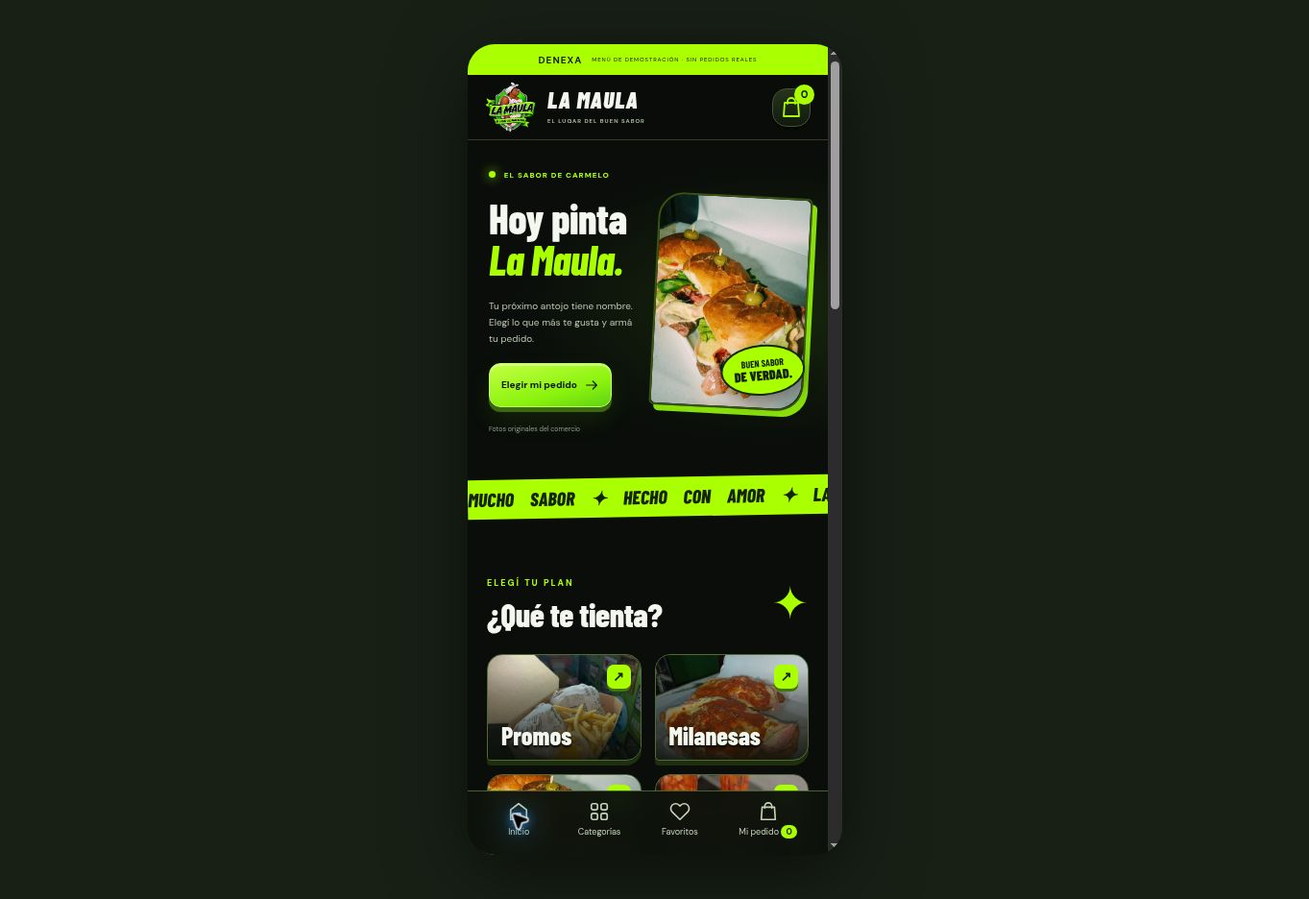
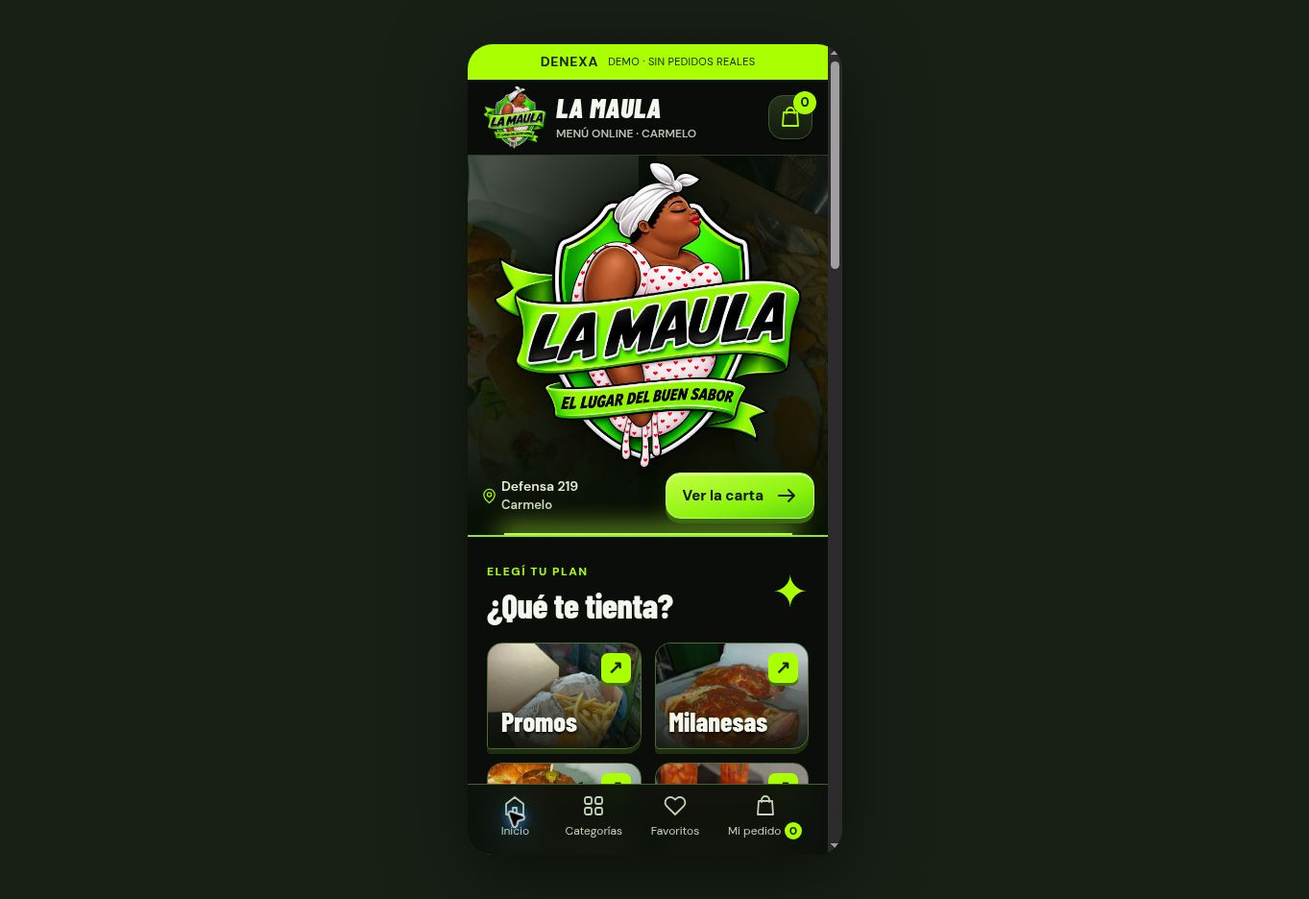
Amplía portada y legibilidad de La Maula y agrega solicitud de POS a domicilio

Changed region(s): [[0.339, 0.062, 0.6471, 0.9295], [0.5855, 0.6506, 0.6163, 0.6816]]

diff --git a/demo/la-maula/styles.css b/demo/la-maula/styles.css
@@ -8,3 +8,140 @@
 @media(prefers-reduced-motion:reduce){html{scroll-behavior:auto}*,*:before,*:after{transition:none!important;animation:none!important}}@media print{body>*{display:none!important}#success-dialog{display:block!important;position:static;border:0;background:white;color:black;width:100%;max-height:none;box-shadow:none}#success-dialog button,.receipt-actions{display:none!important}#receipt{max-height:none;background:white;color:black}#success-dialog .eyebrow{color:black}}
 
 @media(max-width:450px){.detail-photo{height:210px}.detail-body h2{font-size:34px}.detail-body>p{font-size:12px;line-height:1.6;margin-bottom:14px}.detail-body>p.eyebrow{font-size:9px;color:var(--lime);letter-spacing:1.5px}.detail-body .field{margin-top:15px}.detail-actions{position:sticky;bottom:-21px;background:#131c0f;padding:12px 0;margin-bottom:-8px}.detail-body .small-note{font-size:9px}}
+
+/* Revisión 2: marca protagonista y lectura cómoda en celular. */
+html{scroll-padding-top:102px}
+body{font-size:16px}
+.eyebrow{font-size:13px;letter-spacing:1.5px}
+.primary,.secondary{font-size:16px;min-height:54px}
+.welcome{padding:18px 20px;justify-content:flex-start;gap:8px}
+.welcome-top{font-size:12px;letter-spacing:.6px;flex-shrink:0;align-items:center}
+.welcome-content{flex:1;display:flex;flex-direction:column;align-items:center;justify-content:center;width:100%;padding:10px 0}
+.welcome-logo{width:min(90vw,42svh,390px);margin:0 auto 8px}
+.welcome h1{font-size:44px;line-height:1.02;margin:4px 0 10px;letter-spacing:-.6px}
+.welcome .enter{width:min(100%,360px);margin-top:18px;font-size:18px;min-height:58px}
+.demo-disclaimer{font-size:13px;line-height:1.5;margin-top:18px;color:#c0cdb7}
+.demo-bar{min-height:38px;height:auto;padding:8px 12px;gap:12px;font-size:12px;letter-spacing:.3px}
+.demo-bar>b{font-size:15px;letter-spacing:.8px}
+.topbar{padding-top:6px;padding-bottom:6px}
+.brand img{width:76px;height:76px}
+.brand>span{font-size:32px;letter-spacing:.6px}
+.brand small{font-size:12px;letter-spacing:.7px;margin-top:5px}
+.topbar>.icon-btn{width:48px;height:48px}
+.badge{font-size:13px;min-width:24px;height:24px}
+.business-cover{position:relative;isolation:isolate;max-width:1180px;margin:0 auto;overflow:hidden;min-height:380px;display:flex;flex-direction:column;align-items:center;justify-content:center;padding:10px 30px 22px;background:radial-gradient(ellipse at 50% 40%,#77c71f42,transparent 60%),#080e07;border-bottom:2px solid #95e52c}
+.cover-foods{position:absolute;inset:0;display:flex;justify-content:space-between;gap:30%;z-index:-2;overflow:hidden}
+.cover-foods img{width:36%;height:100%;object-fit:cover;opacity:.7;filter:saturate(1.1)}
+.cover-foods img:first-child{object-position:65% 45%}
+.cover-foods img:last-child{object-position:30% 45%}
+.business-cover:before{content:'';position:absolute;inset:0;z-index:-1;background:linear-gradient(90deg,#08100622,#081006ef 35%,#081006dd 65%,#08100622),linear-gradient(0deg,#081006 3%,transparent 70%)}
+.business-cover:after{content:'';position:absolute;left:10%;right:10%;bottom:0;height:2px;box-shadow:0 0 26px 4px #b7ff43;background:#b5ff3b}
+.cover-brand{position:relative;display:flex;align-items:center;justify-content:center;flex:1}
+.cover-brand img{width:330px;max-width:100%;height:auto;display:block;filter:drop-shadow(0 8px 18px #000a)}
+.cover-bottom{display:flex;align-items:center;justify-content:center;gap:30px;width:100%;position:relative;z-index:1;margin-top:2px}
+.cover-bottom p{display:flex;align-items:center;gap:7px;color:#e2efd5;font-size:14px;font-weight:600}
+.cover-bottom p svg{width:18px;height:18px;color:var(--lime)}
+.cover-bottom .primary{min-height:49px;font-size:16px;padding:10px 20px;gap:24px}
+#categorias.section{padding-top:23px;padding-bottom:23px}
+.section-head{margin-bottom:18px}
+.section-head h2{font-size:40px}
+.cat-tile span{font-size:29px}
+.cat-tile b{width:32px;height:32px;font-size:20px}
+.promo{margin-top:18px;margin-bottom:18px}
+.promo .pill{font-size:12px}
+.promo h2{font-size:40px}
+.promo p{font-size:15px;line-height:1.5}
+.promo small{font-size:13px;line-height:1.5}
+.promo-photo{height:100%;min-height:330px}
+.promo-copy{padding:24px}
+.search input{font-size:16px}
+.chip{font-size:14px;min-height:44px;padding:10px 15px}
+.catalog-caption{font-size:14px;line-height:1.6;color:#b9c8ad}
+.category-title strong{font-size:32px}
+.category-title small{font-size:14px;line-height:1.5}
+.category>summary{min-height:96px}
+.category-toggle{width:40px;height:40px;font-size:26px}
+.product h3{font-size:30px}
+.product-body p{font-size:14px;line-height:1.5;min-height:0}
+.product-price.pending-price{font-size:16px;line-height:1.4}
+.add-product{width:44px;height:44px;font-size:27px;flex-shrink:0}
+.fav{width:44px;height:44px}
+.fav svg{width:22px;height:22px}
+.benefits h3{font-size:27px}
+.benefits p{font-size:14px;line-height:1.5}
+.thanks .eyebrow{font-size:13px}
+.thanks p:not(.eyebrow){font-size:14px;line-height:1.6}
+.thanks a{font-size:14px;line-height:1.5}
+footer{font-size:13px}footer>b{font-size:14px}
+.bottom-nav{height:calc(74px + env(safe-area-inset-bottom))}
+.bottom-nav>button,.bottom-nav>a{font-size:12px;gap:5px;min-height:55px;padding:3px 5px}
+.bottom-nav svg{width:24px;height:24px}
+.bottom-nav b{font-size:12px}
+.floating-cart{bottom:calc(89px + env(safe-area-inset-bottom));min-height:58px;padding:12px 16px}
+.floating-cart>span{font-size:15px;gap:8px}.floating-cart>strong{font-size:15px}.floating-cart b{font-size:14px}
+.detail-body>p{font-size:15px;line-height:1.6}
+.detail-body>p.eyebrow{font-size:13px;color:var(--lime)}
+.detail-body .small-note{font-size:13px}
+.detail-actions .primary{font-size:15px}
+.detail-actions{gap:14px}
+.qty{gap:12px}.qty button{width:42px;height:42px;font-size:24px}
+.field{font-size:15px}.field input,.field textarea{font-size:16px}
+.pending{font-size:14px;line-height:1.6}
+.small-note{font-size:13px;line-height:1.5}
+.row-info h3{font-size:26px}.row-info small{font-size:13px}.row-info strong{font-size:16px}
+.remove-line{font-size:13px;min-height:36px;padding:7px 0}
+.cart-row .qty{gap:10px}.cart-row .qty button{width:38px;height:38px;font-size:23px}
+.text-btn{font-size:14px;min-height:40px}
+.total-line{font-size:15px}
+.mode-field legend,.payment-field legend{font-size:16px}
+.mode-grid span{padding:15px 13px;min-height:86px}
+.mode-grid b{font-size:16px}.mode-grid small{font-size:14px;line-height:1.5}
+.payment-options .pos-choice{grid-column:1/-1}
+.payment-options .pos-choice span{min-height:88px;padding-left:18px;position:relative}
+.payment-options .pos-choice span:after{content:'▣';position:absolute;right:16px;top:16px;font-size:22px;color:var(--lime)}
+.payment-options .pos-choice b{display:block;padding-right:28px}
+.payment-options .pos-choice small{max-width:90%}
+.checkout-summary{font-size:15px}.checkout-summary strong{font-size:18px}
+.demo-box{font-size:14px;line-height:1.6}
+.checkout-actions button{font-size:15px;gap:10px}
+.success-copy{font-size:15px;line-height:1.6}
+#receipt{font-size:14px;line-height:1.7}
+#confirm-dialog p{font-size:15px}
+#toast{font-size:14px}
+@media(max-width:760px){
+ .topbar{padding-left:16px;padding-right:16px}.brand{gap:10px}.brand img{width:68px;height:68px}.brand>span{font-size:30px}.brand small{font-size:11px;letter-spacing:.4px}
+ .cover-brand img{width:min(86vw,325px)}.business-cover{min-height:0;padding:5px 18px 18px}.cover-bottom{gap:18px}.cover-bottom p{font-size:13px}.cover-bottom .primary{min-height:48px;font-size:15px;padding:10px 18px;gap:13px}
+ .section-head h2{font-size:38px}.section{padding-top:25px;padding-bottom:25px}
+ .promo h2{font-size:34px}.promo p{font-size:14px}.promo small{font-size:12px}.promo .pill{font-size:11px}.promo-copy{padding:20px}
+ .benefits{grid-template-columns:1fr;gap:15px;padding-top:20px;padding-bottom:20px}.benefits article{padding:0 10px 0 48px;position:relative}.benefits span{position:absolute;left:5px;top:0}.benefits h3{font-size:27px;margin:0 0 6px}.benefits p{font-size:14px}
+ .thanks{gap:18px}.thanks>img{width:135px;height:150px}.thanks h2{font-size:42px}.thanks .eyebrow{font-size:12px}.thanks p:not(.eyebrow){font-size:14px}.thanks a{font-size:14px}
+}
+@media(max-width:450px){
+ .welcome h1{font-size:40px}.welcome .enter{font-size:18px}.welcome-top{font-size:11px}
+ .business-cover{padding:3px 14px 17px}.cover-brand img{width:min(88vw,325px)}.cover-foods{gap:5%}.cover-foods img{width:47.5%;opacity:.68}.business-cover:before{background:radial-gradient(ellipse at 50% 39%,#081006ef 25%,#08100688 70%,#08100644),linear-gradient(0deg,#081006 5%,transparent 85%)}
+ .cover-bottom{gap:12px;justify-content:space-between}.cover-bottom p{font-size:13px;gap:4px;max-width:145px;line-height:1.5}.cover-bottom p svg{width:17px;height:17px}.cover-bottom .primary{font-size:15px;padding:10px 16px;gap:12px;white-space:nowrap}
+ .demo-bar{font-size:11px;gap:10px;min-height:35px}.demo-bar>b{font-size:14px}
+ .brand img{width:66px;height:66px}.brand>span{font-size:29px}.brand small{font-size:11px}.topbar>.icon-btn{width:46px;height:46px}
+ .eyebrow{font-size:12px}.section-head .eyebrow{font-size:12px}.section-head h2{font-size:36px}
+ .cat-tile span{font-size:28px;bottom:14px}.cat-tile b{width:31px;height:31px;font-size:19px}.category-grid{gap:14px}
+ .promo{grid-template-columns:1fr;margin-left:20px;margin-right:20px}.promo-photo{height:170px;min-height:0}.promo-photo img{object-position:50% 63%}.promo-copy{padding:20px}.promo h2{font-size:37px;margin:14px 0 10px}.promo .pill{font-size:12px}.promo p{font-size:15px}.promo small{font-size:13px}.promo-bottom>strong{font-size:50px}.round-arrow{width:46px;height:46px}
+ .search input{font-size:16px}.search{gap:9px;padding-left:12px;padding-right:10px}
+ .category-title strong{font-size:30px}.category-title small{font-size:13px;line-height:1.5}.category>summary{gap:12px;padding:14px 12px}.category>summary>img{width:55px;height:64px}.category-toggle{width:35px;height:35px;font-size:25px;flex-shrink:0}
+ .product{grid-template-columns:105px minmax(0,1fr);min-height:220px}.product-photo{width:105px;height:100%;min-height:220px}.product-body{padding:14px}.product h3{font-size:28px}.product-body p{font-size:14px;line-height:1.5;margin:10px 0 13px}.product-price{font-size:31px}.product-price.pending-price{font-size:15px}.product .fav{width:40px;height:40px;left:7px;top:7px}.fav svg{width:20px;height:20px}.product-controls{gap:8px}.add-product{width:42px;height:42px;font-size:26px}
+ .floating-cart{gap:8px;padding:11px 14px}.floating-cart>span{font-size:14px;gap:7px;min-width:0}.floating-cart>strong{font-size:13px;max-width:45%;line-height:1.3;text-align:right}.floating-cart b{font-size:13px}.floating-cart>svg{width:20px}
+ .bottom-nav>button,.bottom-nav>a{font-size:12px;min-width:55px}.bottom-nav b{font-size:11px}
+ .thanks{flex-direction:column;text-align:center}.thanks>img{width:175px;height:175px}.thanks h2{font-size:45px}.thanks .eyebrow{font-size:13px}
+ .detail-photo{height:200px}.detail-body{padding:20px}.detail-body h2{font-size:35px}.detail-body>p{font-size:15px}.detail-body>p.eyebrow{font-size:12px}.detail-body .small-note{font-size:13px}.detail-actions .primary{font-size:14px}.detail-actions .qty{gap:8px}.detail-actions .qty button{width:37px;height:41px}.detail-actions{bottom:-20px;gap:12px}
+ .cart-row{display:grid;grid-template-columns:48px minmax(0,1fr);align-items:start;gap:6px 12px}.cart-row>img{grid-column:1;grid-row:1/3;width:48px;height:64px}.cart-row .row-info{grid-column:2;grid-row:1}.cart-row .qty{grid-column:2;grid-row:2;justify-self:end;gap:14px;margin:3px 0}.cart-row .qty button{width:40px;height:40px}.row-info h3{font-size:27px}.row-info small{font-size:13px}.row-info strong{font-size:16px}
+ .checkout-actions .primary{padding:13px 16px}.checkout-actions button{font-size:14px}.receipt-actions{flex-wrap:wrap}.mode-grid{gap:12px}.mode-grid b{font-size:15px}.mode-grid small{font-size:13px}.pending{font-size:14px}.small-note{font-size:13px}.empty{font-size:15px}
+}
+@media(max-width:350px){
+ .brand>span{font-size:26px}.brand small{font-size:10px}.brand img{width:58px;height:58px}.brand{gap:7px}.demo-bar{font-size:10px;gap:7px}.demo-bar>b{font-size:13px}.cover-bottom p{font-size:12px;max-width:120px}.cover-bottom .primary{font-size:14px;padding:10px 13px;gap:8px}.product{grid-template-columns:88px minmax(0,1fr)}.product-photo{width:88px}.product-body{padding:12px}.product h3{font-size:26px}.product-price.pending-price{font-size:14px}.product-price{font-size:28px}.product-body p{font-size:14px}.add-product{width:38px;height:40px}.checkout-actions{flex-wrap:wrap}.checkout-actions button{flex:1;white-space:nowrap}.detail-actions{flex-wrap:wrap}.detail-actions .primary{flex:1;min-width:135px}.floating-cart>span{font-size:13px}.floating-cart>span svg{display:none}
+}
+@media(max-height:700px){.welcome{padding-top:12px;padding-bottom:12px}.welcome-logo{width:min(88vw,38svh,320px)}.welcome h1{font-size:34px;margin:3px 0 5px}.welcome .enter{margin-top:12px;min-height:53px}.demo-disclaimer{font-size:12px;margin-top:13px}.welcome-content{padding:6px 0}}
+
+@media(max-width:350px){.brand small{font-size:12px;letter-spacing:0}.demo-bar{font-size:12px;gap:9px;flex-wrap:wrap}.demo-bar>b{font-size:14px}}
+
+.cover-bottom p small{display:block;font-size:13px;color:#c8d8b9;line-height:1.4}.cover-bottom p span{white-space:nowrap}@media(max-width:450px){.brand small{font-size:12px;letter-spacing:0}.cover-bottom p{font-size:14px}.cover-bottom p small{font-size:13px}}
+
+.bottom-nav b{font-size:12px}

diff --git a/demo/la-maula/index.html b/demo/la-maula/index.html
@@ -4,7 +4,7 @@
 <meta charset="utf-8"><meta name="viewport" content="width=device-width,initial-scale=1,viewport-fit=cover"><meta name="theme-color" content="#0a0d0a">
 <meta name="description" content="Conocé la propuesta de menú online de La Maula, Carmelo. Demo interactiva presentada por DENEXA.">
 <title>La Maula · El lugar del buen sabor</title>
-<link rel="icon" href="assets/la-maula-logo.webp"><link rel="stylesheet" href="styles.css?v=1"><script src="app.js?v=1" defer></script>
+<link rel="icon" href="assets/la-maula-logo.webp"><link rel="stylesheet" href="styles.css?v=2"><script src="app.js?v=2" defer></script>
 </head>
 <body class="welcoming">
 <svg class="sprite" xmlns="http://www.w3.org/2000/svg" aria-hidden="true"><defs>
@@ -22,20 +22,21 @@
  <div class="welcome-top"><span>Carmelo, Uruguay</span><span class="micro">DEMO POR DENEXA</span></div>
  <div class="welcome-content">
   <img class="welcome-logo" src="assets/la-maula-logo.webp" width="1254" height="1254" alt="La Maula. El lugar del buen sabor" fetchpriority="high">
-  <p class="eyebrow">BIENVENIDOS A NUESTRO MENÚ</p>
-  <h1 id="welcome-title">Tu antojo<br><em>empieza acá.</em></h1>
-  <p class="welcome-copy">El sabor de siempre.<br>Ahora, a un toque de distancia.</p>
+  <h1 id="welcome-title">Bienvenidos<br><em>a nuestro menú.</em></h1>
   <button class="primary enter" id="enter">Ver menú <svg><use href="#i-arrow"/></svg></button>
-  <p class="demo-disclaimer">Explorá, elegí y probá hacer un pedido.<br>Es una demo: no se envía al comercio.</p>
+  <p class="demo-disclaimer">Demo interactiva · Sin pedidos reales.</p>
  </div>
- <div class="welcome-bottom"><span>HECHO CON GANAS. SERVIDO CON AMOR.</span><b>LA MAULA ✦</b></div>
+ 
 </section>
 <div id="store" hidden>
- <div class="demo-bar"><b>DENEXA</b><span>MENÚ DE DEMOSTRACIÓN · SIN PEDIDOS REALES</span></div>
- <header class="topbar"><button id="brand-home" class="brand" aria-label="Volver a la bienvenida"><img src="assets/la-maula-logo.webp" width="72" height="72" alt="La Maula"><span>LA MAULA<small>EL LUGAR DEL BUEN SABOR</small></span></button><button class="icon-btn" data-cart aria-label="Abrir mi pedido"><svg><use href="#i-bag"/></svg><b class="badge" data-count>0</b></button></header>
+ <div class="demo-bar"><b>DENEXA</b><span>DEMO · SIN PEDIDOS REALES</span></div>
+ <header class="topbar"><button id="brand-home" class="brand" aria-label="Volver a la bienvenida"><img src="assets/la-maula-logo.webp" width="72" height="72" alt="La Maula"><span>LA MAULA<small>MENÚ ONLINE · CARMELO</small></span></button><button class="icon-btn" data-cart aria-label="Abrir mi pedido"><svg><use href="#i-bag"/></svg><b class="badge" data-count>0</b></button></header>
  <main>
-  <section class="hero" id="inicio"><div class="hero-copy"><p class="eyebrow"><span class="spark"></span> EL SABOR DE CARMELO</p><h2>Hoy pinta<br><em>La Maula.</em></h2><p>Tu próximo antojo tiene nombre.<br>Elegí lo que más te gusta y armá tu pedido.</p><a href="#categorias" class="primary">Elegir mi pedido <svg><use href="#i-arrow"/></svg></a><span class="hero-note">Fotos originales del comercio</span></div><div class="hero-photo"><img src="assets/chivitos.jpg" alt="Chivitos de La Maula con queso, vegetales y panceta" width="640" height="800"><span class="photo-stamp">BUEN SABOR<br><strong>DE VERDAD.</strong></span></div></section>
-  <div class="ticker" aria-hidden="true"><span>MUCHO SABOR ✦ HECHO CON AMOR ✦ LA MAULA ✦ MUCHO SABOR ✦ HECHO CON AMOR ✦ LA MAULA ✦</span></div>
+  <section class="business-cover" id="inicio" aria-label="Portada de La Maula, el lugar del buen sabor">
+   <div class="cover-foods" aria-hidden="true"><img src="assets/chivitos.jpg" alt="" width="640" height="800"><img src="assets/milanesa-cheddar.jpg" alt="" width="640" height="800"></div>
+   <div class="cover-brand"><img src="assets/la-maula-logo.webp" width="1254" height="1254" alt="LA MAULA · EL LUGAR DEL BUEN SABOR"></div>
+   <div class="cover-bottom"><p><svg aria-hidden="true"><use href="#i-pin"/></svg><span>Defensa 219<small>Carmelo</small></span></p><a href="#categorias" class="primary">Ver la carta <svg aria-hidden="true"><use href="#i-arrow"/></svg></a></div>
+  </section>
   <section id="categorias" class="section"><div class="section-head"><div><p class="eyebrow">ELEGÍ TU PLAN</p><h2>¿Qué te tienta?</h2></div><span class="star">✦</span></div><div id="category-grid" class="category-grid"></div></section>
   <section class="promo section" aria-label="Promo publicada por el comercio"><div class="promo-photo"><img src="assets/promo-burgers.jpg" alt="Foto real del combo de dos hamburguesas con papas de La Maula" loading="lazy"></div><div class="promo-copy"><span class="pill">PARA COMPARTIR</span><h2>Dos hamburguesas.<br>Un tremendo plan.</h2><p>2 hamburguesas completas + fritas</p><div class="promo-bottom"><strong>$400</strong><button class="round-arrow" data-product="promo" aria-label="Ver promo de dos hamburguesas"><svg><use href="#i-arrow"/></svg></button></div><small>Precio publicado · sujeto a confirmación</small></div></section>
   <section class="section catalog" id="catalogo"><div class="section-head"><div><p class="eyebrow">LA CARTA</p><h2>El antojo lo elegís vos.</h2></div></div><div class="search-row"><label class="search"><svg><use href="#i-search"/></svg><input id="search" type="search" placeholder="Buscá tu próximo antojo…" aria-label="Buscar productos"><button id="clear-search" type="button" aria-label="Borrar búsqueda" hidden>×</button></label><button id="favorites-filter" class="icon-btn" aria-label="Mostrar favoritos" aria-pressed="false"><svg><use href="#i-heart"/></svg></button></div><div id="filter-chips" class="filter-chips" aria-label="Filtrar categoría"></div><p class="catalog-caption">Muestra con productos y fotos del comercio. Precios publicados a confirmar; los no publicados figuran «A confirmar».</p><div id="catalog"></div><p id="no-results" class="empty" hidden>No encontramos ese antojo. Probá con otra búsqueda.</p></section>
@@ -48,7 +49,7 @@
 </div>
 <dialog id="product-dialog" aria-labelledby="product-title"><div id="product-detail"></div><button class="close" data-close aria-label="Cerrar producto">×</button></dialog>
 <dialog id="cart-dialog" aria-labelledby="cart-title"><div class="sheet-head"><div><p class="eyebrow">BIEN ELEGIDO</p><h2 id="cart-title">Tu pedido</h2></div><button class="close" data-close aria-label="Cerrar pedido">×</button></div><div id="cart-items"></div><div id="cart-footer"><button id="empty-cart" class="text-btn">Vaciar pedido</button><label class="field">Aclaraciones del pedido<textarea id="order-notes" rows="2" maxlength="500" placeholder="Algo que debamos tener en cuenta…"></textarea></label><div class="total-line"><span id="total-label">Total de referencia</span><strong id="cart-total">$0</strong></div><p id="pending-prices" class="pending" hidden></p><button class="primary full" id="checkout">Continuar <svg><use href="#i-arrow"/></svg></button><p class="small-note">Pedido de prueba · No se envía al comercio</p></div></dialog>
-<dialog id="checkout-dialog" aria-labelledby="checkout-title"><div class="sheet-head"><div><p class="eyebrow">ÚLTIMO PASO</p><h2 id="checkout-title">Tus datos</h2></div><button class="close" data-close aria-label="Cerrar datos">×</button></div><form id="checkout-form"><fieldset class="mode-field"><legend>¿Cómo lo querés recibir?</legend><div class="mode-grid"><label><input name="mode" type="radio" value="Retiro" checked><span><b>Para retirar</b><small>Defensa 219</small></span></label><label><input name="mode" type="radio" value="Delivery"><span><b>Delivery</b><small>Simular entrega</small></span></label></div></fieldset><label class="field">Tu nombre<input id="customer-name" name="customerName" autocomplete="name" required minlength="2" maxlength="80" placeholder="Ej.: María"></label><label class="field">Teléfono<input id="customer-phone" name="phone" type="tel" autocomplete="tel" inputmode="tel" required pattern="[+0-9 ()-]{8,25}" maxlength="25" placeholder="Ej.: 099 123 456"></label><div id="delivery-fields" hidden><label class="field">Dirección<input name="address" id="customer-address" autocomplete="street-address" maxlength="180" placeholder="Calle, número y esquina"></label><label class="field">Indicaciones de entrega<input name="directions" maxlength="180" placeholder="Ej.: puerta verde, timbre 2"></label><p class="pending">Entrega de demostración. Zona, disponibilidad y costo a confirmar; no se agregan cargos ficticios.</p></div><fieldset class="payment-field"><legend>Forma de pago</legend><div class="mode-grid"><label><input type="radio" name="payment" value="Efectivo" checked><span><b>Efectivo</b><small>Al recibir</small></span></label><label><input type="radio" name="payment" value="Transferencia"><span><b>Transferencia</b><small>Simular pago</small></span></label></div></fieldset><p id="transfer-info" class="pending" hidden>Modo demo: no se solicita ni se realiza ninguna transferencia. Los datos bancarios se configurarían con el comercio.</p><div class="checkout-summary" id="checkout-summary"></div><p class="demo-box"><b>Estás probando una demo.</b> No enviamos pedidos ni cobramos. No necesitás usar datos personales reales.</p><div class="checkout-actions"><button class="secondary" id="back-cart" type="button">← Mi pedido</button><button class="primary" type="submit">Simular pedido <svg><use href="#i-arrow"/></svg></button></div></form></dialog>
+<dialog id="checkout-dialog" aria-labelledby="checkout-title"><div class="sheet-head"><div><p class="eyebrow">ÚLTIMO PASO</p><h2 id="checkout-title">Tus datos</h2></div><button class="close" data-close aria-label="Cerrar datos">×</button></div><form id="checkout-form"><fieldset class="mode-field"><legend>¿Cómo lo querés recibir?</legend><div class="mode-grid"><label><input name="mode" type="radio" value="Retiro" checked><span><b>Para retirar</b><small>Defensa 219</small></span></label><label><input name="mode" id="mode-delivery" type="radio" value="Delivery"><span><b>Delivery</b><small>Simular entrega</small></span></label></div></fieldset><label class="field">Tu nombre<input id="customer-name" name="customerName" autocomplete="name" required minlength="2" maxlength="80" placeholder="Ej.: María"></label><label class="field">Teléfono<input id="customer-phone" name="phone" type="tel" autocomplete="tel" inputmode="tel" required pattern="[+0-9 ()-]{8,25}" maxlength="25" placeholder="Ej.: 099 123 456"></label><div id="delivery-fields" hidden><label class="field">Dirección<input name="address" id="customer-address" autocomplete="street-address" maxlength="180" placeholder="Calle, número y esquina"></label><label class="field">Indicaciones de entrega<input name="directions" maxlength="180" placeholder="Ej.: puerta verde, timbre 2"></label><p class="pending">Entrega de demostración. Zona, disponibilidad y costo a confirmar; no se agregan cargos ficticios.</p></div><fieldset class="payment-field"><legend>Forma de pago</legend><div class="mode-grid payment-options"><label><input type="radio" id="payment-cash" name="payment" value="Efectivo" checked><span><b>Efectivo</b><small>Al recibir</small></span></label><label><input type="radio" name="payment" value="Transferencia"><span><b>Transferencia</b><small>Simular pago</small></span></label><label class="pos-choice"><input type="radio" id="payment-pos" name="payment" value="POS a domicilio"><span><b>Solicitar POS a domicilio</b><small>Pagá con tarjeta al recibir · Se selecciona delivery</small></span></label></div></fieldset><p id="pos-info" class="pending" hidden>Se incluirá en el pedido la solicitud de llevar el POS a tu domicilio. Disponibilidad sujeta a confirmación del comercio. Esta demo no realiza cobros.</p><p id="transfer-info" class="pending" hidden>Modo demo: no se solicita ni se realiza ninguna transferencia. Los datos bancarios se configurarían con el comercio.</p><div class="checkout-summary" id="checkout-summary"></div><p class="demo-box"><b>Estás probando una demo.</b> No enviamos pedidos ni cobramos. No necesitás usar datos personales reales.</p><div class="checkout-actions"><button class="secondary" id="back-cart" type="button">← Mi pedido</button><button class="primary" type="submit">Simular pedido <svg><use href="#i-arrow"/></svg></button></div></form></dialog>
 <dialog id="success-dialog" aria-labelledby="success-title"><div class="success-icon"><svg><use href="#i-check"/></svg></div><p class="eyebrow">ASÍ DE FÁCIL</p><h2 id="success-title">¡Pedido de prueba listo!</h2><p class="success-copy">Así llegaría organizado tu pedido.<br>Esta simulación no se envió a La Maula.</p><pre id="receipt"></pre><button id="copy-order" class="primary full">Copiar resumen</button><div class="receipt-actions"><button id="print-order" class="text-btn">Guardar / imprimir</button><button id="new-order" class="text-btn">Hacer otro pedido →</button></div></dialog>
 <dialog id="confirm-dialog" aria-labelledby="confirm-title"><h2 id="confirm-title">¿Vaciamos el pedido?</h2><p>Se quitarán todos los productos que agregaste.</p><div class="checkout-actions"><button class="secondary" data-close>Conservar</button><button class="primary" id="confirm-empty">Vaciar pedido</button></div></dialog>
 <div id="toast" role="status" aria-live="polite"></div>

diff --git a/demo/la-maula/app.js b/demo/la-maula/app.js
@@ -101,7 +101,15 @@ $('#confirm-dialog').querySelector('[data-close]').addEventListener('click',open
 $('#confirm-empty').addEventListener('click',()=>{cart=[];save();updateCart();openCart();toast('Pedido vaciado');});
 function checkout(){if(!cart.length)return;const t=totals();$('#checkout-summary').innerHTML=`${t.count} ${t.count===1?'producto':'productos'} <strong>${t.total?money(t.total):'A confirmar'}${t.pending&&t.total?' + a confirmar':''}</strong>${t.pending?'<p style="margin-top:10px">Hay productos cuyo precio queda pendiente de confirmar.</p>':''}`;openDialog('#checkout-dialog');}
 $('#checkout').addEventListener('click',checkout);$('#back-cart').addEventListener('click',openCart);
-$('#checkout-form').addEventListener('change',()=>{const delivery=$('input[name="mode"]:checked').value==='Delivery';$('#delivery-fields').hidden=!delivery;$('#customer-address').required=delivery;$('#transfer-info').hidden=$('input[name="payment"]:checked').value!=='Transferencia';});
+function syncCheckoutOptions(changed){
+ if(changed?.name==='payment'&&changed.value==='POS a domicilio')$('#mode-delivery').checked=true;
+ if(changed?.name==='mode'&&changed.value==='Retiro'&&$('#payment-pos').checked){$('#payment-cash').checked=true;toast('POS a domicilio requiere delivery. Elegí el pago para retirar.');}
+ const delivery=$('input[name="mode"]:checked').value==='Delivery';
+ $('#delivery-fields').hidden=!delivery;$('#customer-address').required=delivery;
+ $('#transfer-info').hidden=$('input[name="payment"]:checked').value!=='Transferencia';
+ $('#pos-info').hidden=!$('#payment-pos').checked;
+}
+$('#checkout-form').addEventListener('change',event=>syncCheckoutOptions(event.target));
 $('#checkout-form').addEventListener('submit',event=>{
  event.preventDefault();if(!cart.length)return openCart();const form=event.currentTarget;if(!form.reportValidity())return;
  const data=new FormData(form);const t=totals();
@@ -109,10 +117,10 @@ $('#checkout-form').addEventListener('submit',event=>{
  if(t.pending)lines.push('Hay productos con precio pendiente. El subtotal no los incluye.');
  lines.push('',`Nombre: ${String(data.get('customerName')).trim()}`,`Teléfono: ${String(data.get('phone')).trim()}`,`Modalidad: ${data.get('mode')}`);
  if(data.get('mode')==='Delivery'){lines.push(`Dirección: ${String(data.get('address')).trim()}`);if(data.get('directions'))lines.push(`Indicaciones: ${String(data.get('directions')).trim()}`);lines.push('Zona y costo de entrega a confirmar.');}else lines.push('Retiro: Defensa 219, entre Varela y Carmen, Carmelo.');
- lines.push(`Pago: ${data.get('payment')} (simulado)`);if($('#order-notes').value.trim())lines.push('Observaciones: '+$('#order-notes').value.trim());
+ lines.push(`Pago: ${data.get('payment')==='POS a domicilio'?'Tarjeta con POS a domicilio':data.get('payment')} (simulado)`);if(data.get('payment')==='POS a domicilio')lines.push('Solicitar POS a domicilio: SÍ. Llevar el terminal para cobrar al recibir.');if($('#order-notes').value.trim())lines.push('Observaciones: '+$('#order-notes').value.trim());
  lines.push('','Precios y disponibilidad sujetos a confirmación.','Esta demo no realiza cobros ni envía pedidos.');receipt=lines.join('\n');$('#receipt').textContent=receipt;$('#copy-order').textContent='Copiar resumen';openDialog('#success-dialog');
 });
 $('#copy-order').addEventListener('click',async()=>{try{await navigator.clipboard.writeText(receipt);$('#copy-order').textContent='¡Resumen copiado!';toast('Resumen de prueba copiado');}catch{const range=document.createRange();range.selectNodeContents($('#receipt'));const selection=window.getSelection();selection.removeAllRanges();selection.addRange(range);toast('Seleccioná y copiá el resumen.');}});
 $('#print-order').addEventListener('click',()=>window.print());
-$('#new-order').addEventListener('click',()=>{cart=[];save();updateCart();$('#checkout-form').reset();$('#delivery-fields').hidden=true;$('#customer-address').required=false;$('#transfer-info').hidden=true;$('#order-notes').value='';receipt='';$('#receipt').textContent='';closeDialog($('#success-dialog'));filter='Todas';onlyFavorites=false;$('#search').value='';renderCatalog();$('#categorias').scrollIntoView({behavior:'smooth'});});
+$('#new-order').addEventListener('click',()=>{cart=[];save();updateCart();$('#checkout-form').reset();$('#delivery-fields').hidden=true;$('#customer-address').required=false;$('#transfer-info').hidden=true;$('#pos-info').hidden=true;$('#order-notes').value='';receipt='';$('#receipt').textContent='';closeDialog($('#success-dialog'));filter='Todas';onlyFavorites=false;$('#search').value='';renderCatalog();$('#categorias').scrollIntoView({behavior:'smooth'});});
 renderCategoryTiles();renderCatalog();updateCart();
